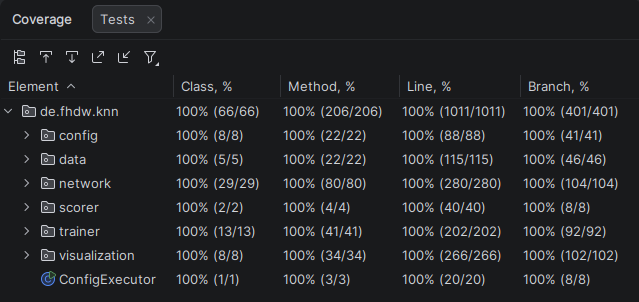
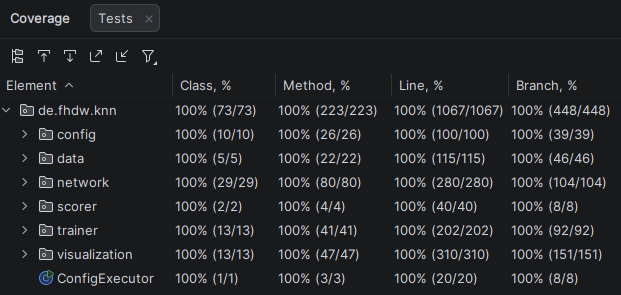
Update README Test Coverage

diff --git a/README.md b/README.md
@@ -174,7 +174,7 @@ um sie von manuell erstellten Tests zu unterscheiden und das verwendete Tool anz
     - 100% Line Coverage (experimentelles Package `de.fhdw.knn.run` ausgenommen)
 - manuell überprüfte, automatisiert generierte Tests (mit `@Generated`-Annotation) zur Erhöhung der Testabdeckung
 - Durchführung von Regressionstests nach Code-Änderungen
-- <strong>240 Testfälle</strong> insgesamt
+- <strong>264 Testfälle</strong> insgesamt
 - <strong>Coverage Report</strong> siehe [docs/test_coverage](docs/test_coverage/index.html)
 
 ![docs/assets/test_coverage.png](docs/assets/test_coverage.png)
